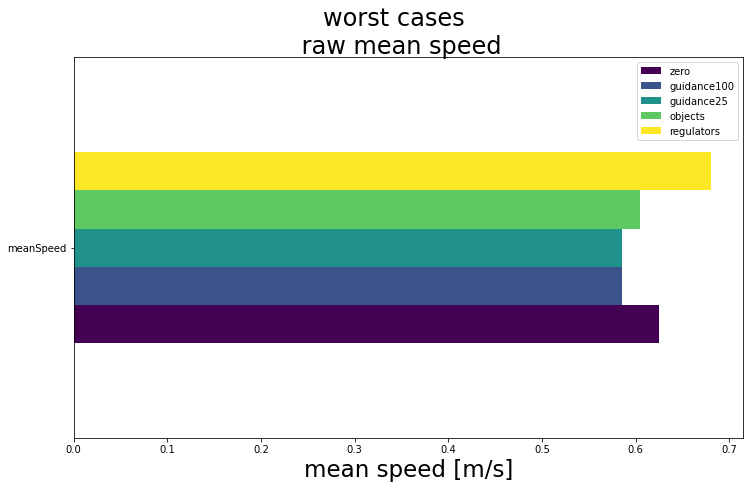
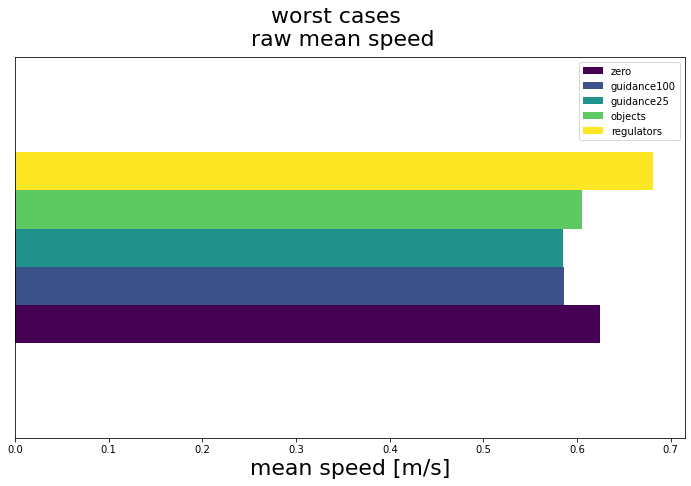
updated plots

Changed region(s): [[0.0, 0.3086, 0.9421, 0.7099], [0.0608, 0.0, 1.0, 0.9877], [0.0, 0.8951, 0.0304, 0.9259]]

diff --git a/analysis/control_exploration_results.py b/analysis/control_exploration_results.py
@@ -251,9 +251,19 @@ if __name__ == "__main__":
                 "maxDensityArea4",
             ]
         )
-    ].plot.bar(ax=ax, colormap="viridis", rot=0)
+    ].rename(
+        index={
+            "maxDensityArea1": "area 1",
+            "maxDensityArea2": "area 2",
+            "maxDensityArea3": "area 3",
+            "maxDensityArea4": "area 4",
+        }
+    ).plot.bar(
+        ax=ax, colormap="viridis", rot=0
+    )
     fig.suptitle("Problematic cases \n raw max density", fontsize=22)
-    ax.set_ylabel("max density [#/m²]", fontsize=23)
+    ax.set_ylabel("max density [#/m²]", fontsize=22)
+    plt.xticks(fontsize=22, weight="bold")
     fig.savefig("../figures/controlStrategiesRawMaxDensityS1.png", bbox_inches="tight")
 
     fig, ax = plt.subplots(figsize=(8, 6))
@@ -266,9 +276,19 @@ if __name__ == "__main__":
                 "maxDensityArea4",
             ]
         )
-    ].plot.bar(ax=ax, colormap="viridis", rot=0)
+    ].rename(
+        index={
+            "maxDensityArea1": "area 1",
+            "maxDensityArea2": "area 2",
+            "maxDensityArea3": "area 3",
+            "maxDensityArea4": "area 4",
+        }
+    ).plot.bar(
+        ax=ax, colormap="viridis", rot=0
+    )
     fig.suptitle("Good cases \n raw max density", fontsize=22)
-    ax.set_ylabel("max density [#/m²]", fontsize=23)
+    ax.set_ylabel("max density [#/m²]", fontsize=22)
+    plt.xticks(fontsize=22, weight="bold")
     fig.savefig("../figures/controlStrategiesRawMaxDensityS2.png", bbox_inches="tight")
 
     fig, ax = plt.subplots(figsize=(8, 6))
@@ -281,9 +301,19 @@ if __name__ == "__main__":
                 "maxDensityArea4",
             ]
         )
-    ].plot.bar(ax=ax, colormap="viridis", rot=0)
+    ].rename(
+        index={
+            "maxDensityArea1": "area 1",
+            "maxDensityArea2": "area 2",
+            "maxDensityArea3": "area 3",
+            "maxDensityArea4": "area 4",
+        }
+    ).plot.bar(
+        ax=ax, colormap="viridis", rot=0
+    )
     fig.suptitle("worst cases \n raw max density", fontsize=22)
-    ax.set_ylabel("max density [#/m²]", fontsize=23)
+    ax.set_ylabel("max density [#/m²]", fontsize=22)
+    plt.xticks(fontsize=22, weight="bold")
     fig.savefig("../figures/controlStrategiesRawMaxDensityS3.png", bbox_inches="tight")
 
     # plotting raw mean speed scores
@@ -291,24 +321,27 @@ if __name__ == "__main__":
     raw_outcomes_s1.loc[raw_outcomes_s1.index == "meanSpeed"].plot.barh(
         ax=ax, colormap="viridis"
     )
-    fig.suptitle("Problematic cases \n raw mean speed", fontsize=24)
-    ax.set_xlabel("mean speed [m/s]", fontsize=23)
+    fig.suptitle("Problematic cases \n raw mean speed", fontsize=22)
+    ax.set_xlabel("mean speed [m/s]", fontsize=22)
+    plt.yticks([])
     fig.savefig("../figures/controlStrategiesRawMeanSpeedS1.png", bbox_inches="tight")
 
     fig, ax = plt.subplots(figsize=(12, 7))
     raw_outcomes_s2.loc[raw_outcomes_s2.index == "meanSpeed"].plot.barh(
         ax=ax, colormap="viridis"
     )
-    fig.suptitle("Good cases \n raw mean speed", fontsize=24)
-    ax.set_xlabel("mean speed [m/s]", fontsize=23)
+    fig.suptitle("Good cases \n raw mean speed", fontsize=22)
+    ax.set_xlabel("mean speed [m/s]", fontsize=22)
+    plt.yticks([])
     fig.savefig("../figures/controlStrategiesRawMeanSpeedS2.png", bbox_inches="tight")
 
     fig, ax = plt.subplots(figsize=(12, 7))
     raw_outcomes_s1.loc[raw_outcomes_s1.index == "meanSpeed"].plot.barh(
         ax=ax, colormap="viridis"
     )
-    fig.suptitle("worst cases \n raw mean speed", fontsize=24)
-    ax.set_xlabel("mean speed [m/s]", fontsize=23)
+    fig.suptitle("worst cases \n raw mean speed", fontsize=22)
+    ax.set_xlabel("mean speed [m/s]", fontsize=22)
+    plt.yticks([])
     fig.savefig("../figures/controlStrategiesRawMeanSpeedS3.png", bbox_inches="tight")
 
     # plotting robustness averted scores
@@ -316,27 +349,30 @@ if __name__ == "__main__":
     r_averted_s1[["complete cases averted", "number of averted areas"]].plot.barh(
         ax=ax, colormap="viridis", rot=0
     ).legend(loc="lower right")
-    fig.suptitle("Problematic cases \n robustness: total averted", fontsize=24)
-    ax.set_xlabel("Total count", fontsize=23)
-    ax.set_ylabel(ylabel="Measure", fontsize=23)
+    fig.suptitle("Problematic cases \n robustness: total averted", fontsize=22)
+    ax.set_xlabel("Total count", fontsize=22)
+    ax.set_ylabel(ylabel="Measure", fontsize=22)
+    plt.yticks(fontsize=22, weight="bold")
     fig.savefig("../figures/controlStrategiesAvertedS1.png", bbox_inches="tight")
 
     fig, ax = plt.subplots(figsize=(12, 7))
     r_averted_s2[["complete cases averted", "number of averted areas"]].plot.barh(
         ax=ax, colormap="viridis", rot=0
     ).legend(loc="lower right")
-    fig.suptitle("Good cases \n robustness: total averted", fontsize=24)
-    ax.set_xlabel("Total count", fontsize=23)
-    ax.set_ylabel(ylabel="Measure", fontsize=23)
+    fig.suptitle("Good cases \n robustness: total averted", fontsize=22)
+    ax.set_xlabel("Total count", fontsize=22)
+    ax.set_ylabel(ylabel="Measure", fontsize=22)
+    plt.yticks(fontsize=22, weight="bold")
     fig.savefig("../figures/controlStrategiesAvertedS2.png", bbox_inches="tight")
 
     fig, ax = plt.subplots(figsize=(12, 7))
     r_averted_s3[["complete cases averted", "number of averted areas"]].plot.barh(
         ax=ax, colormap="viridis", rot=0
     ).legend(loc="lower right")
-    fig.suptitle("worst cases", fontsize=24)
-    ax.set_xlabel("Total count", fontsize=23)
-    ax.set_ylabel(ylabel="Measure", fontsize=23)
+    fig.suptitle("worst cases", fontsize=22)
+    ax.set_xlabel("Total count", fontsize=22)
+    ax.set_ylabel(ylabel="Measure", fontsize=22)
+    plt.yticks(fontsize=22, weight="bold")
     fig.savefig("../figures/controlStrategiesAvertedS3.png", bbox_inches="tight")
 
     # plotting robustness mean variance speed
